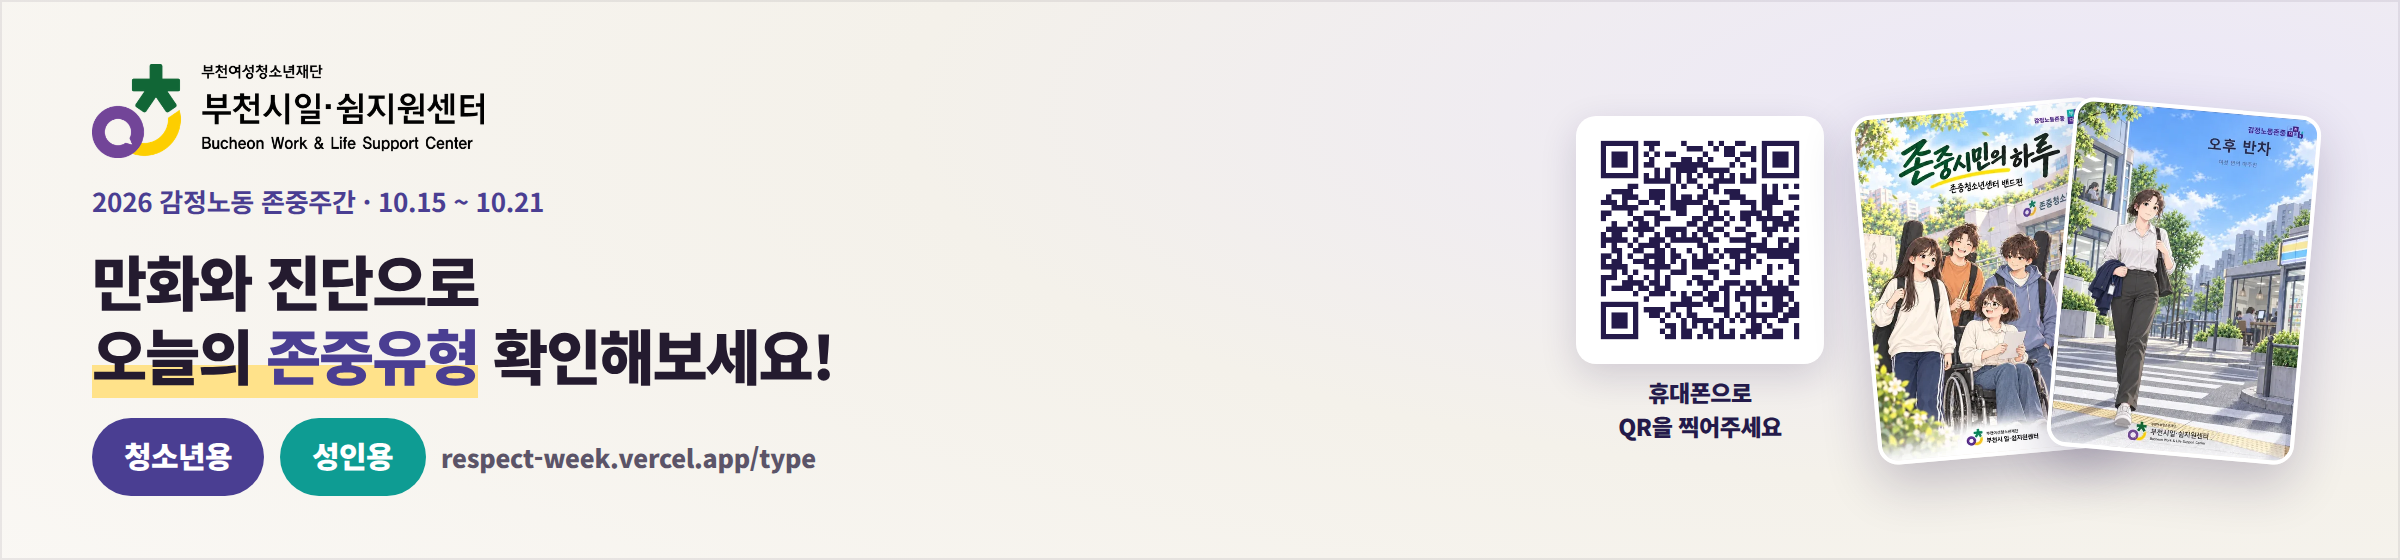
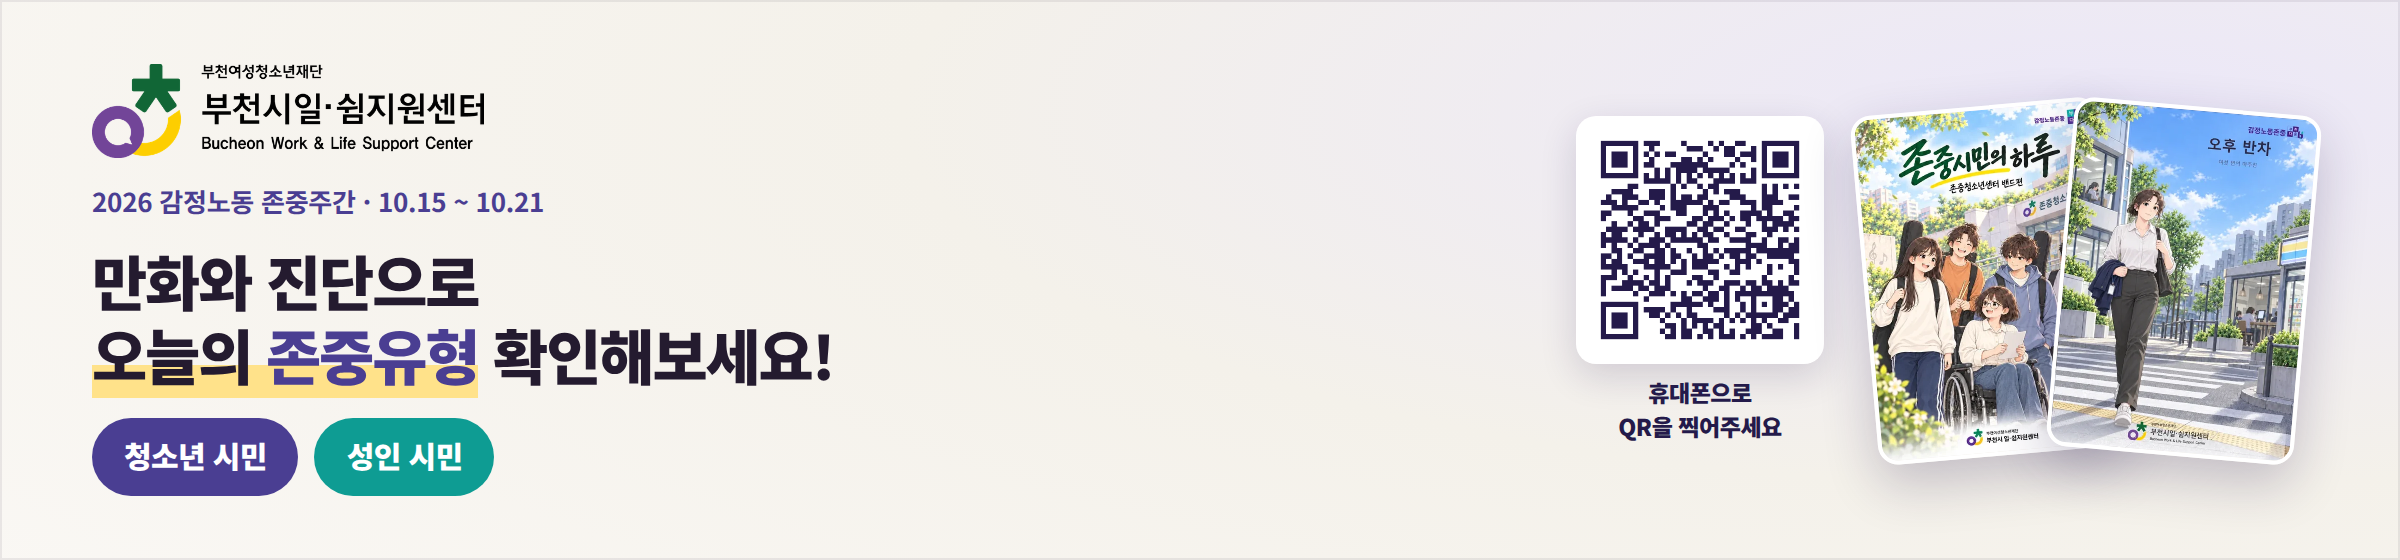
라벨을 '청소년 시민 / 성인 시민'으로 통일, 배너 4종 추가
- 배너·페이지 전체 라벨 변경 (청소년용/성인용 -> 청소년 시민/성인 시민)
- 배너에서 주소 문구 삭제
- 긴 띠 1920x220, 정사각 1080x1080 추가 (각 연동형·QR형)
- 투명배경 QR 추가 (흰색·보라, PNG와 인쇄용 SVG)
- og 이미지를 가로형 카드로 교체

Claude-Session: https://claude.ai/code/session_01NXt7ZEpbXWExRBiNBNAuqF

Changed region(s): [[0.0625, 0.7286, 0.3438, 0.9107]]

diff --git a/type/index.html b/type/index.html
@@ -127,7 +127,7 @@
 
     <section class="card youth">
       <div class="card-top">
-        <span class="who">청소년</span>
+        <span class="who">청소년 시민</span>
         <h2>존중시민의 하루</h2>
       </div>
       <p class="sub">밴드 연습을 앞둔 다섯 친구의 하루. 편의점, 버스, 배달에서 마주친 순간들.</p>
@@ -140,7 +140,7 @@
 
     <section class="card adult">
       <div class="card-top">
-        <span class="who">성인</span>
+        <span class="who">성인 시민</span>
         <h2>오후 반차</h2>
       </div>
       <p class="sub">오전에는 센터 노동자, 오후에는 시민. 수현이 겪는 여섯 번의 마주침.</p>
